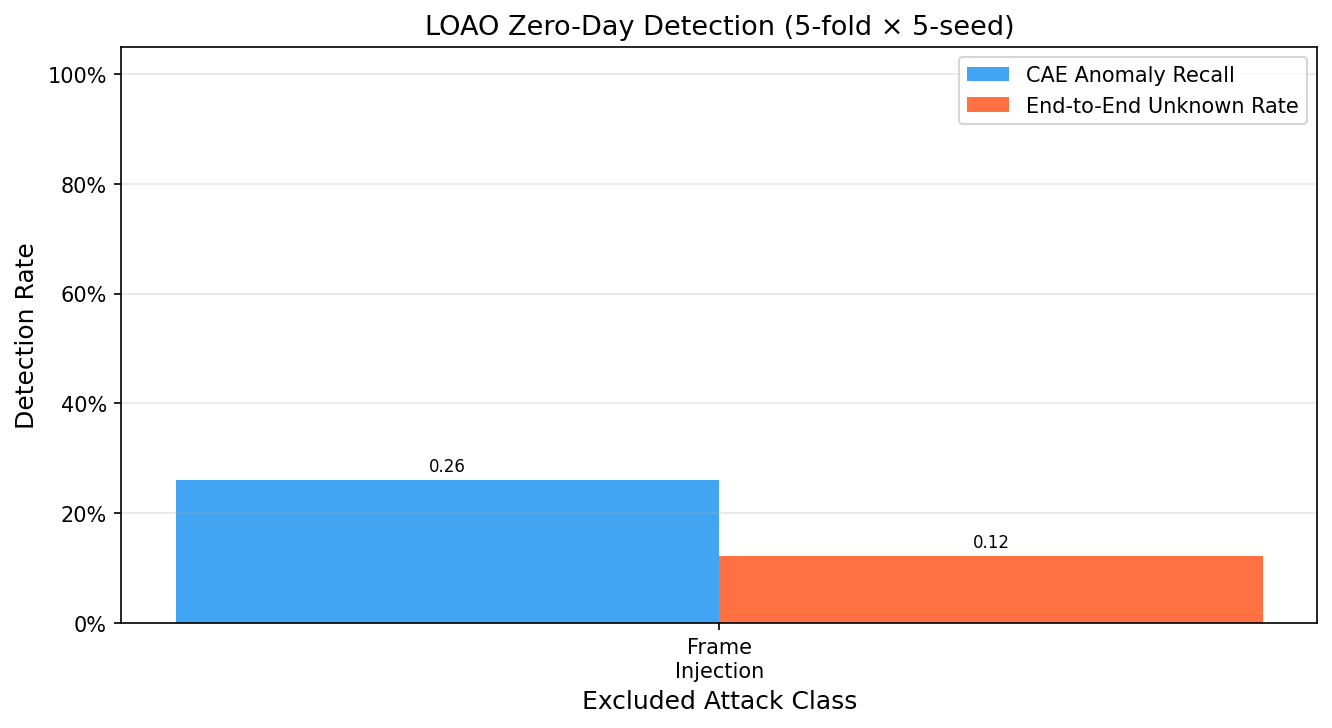
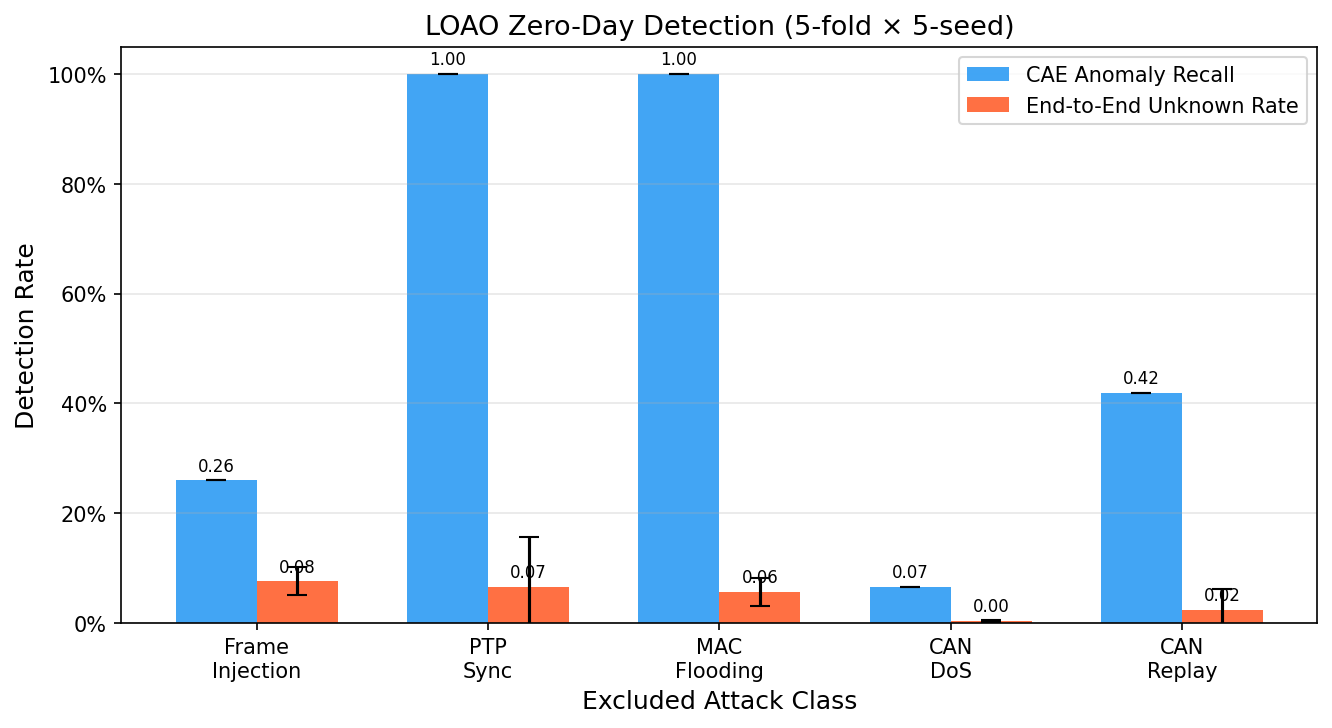
results: full LOAO 5-fold × 5-seed experiment results and README update
LOAO summary (5 attack folds × 5 seeds):
- F_I: CAE recall 25.96%, Unknown rate 7.61% ± 2.52%
- P_I: CAE recall 100.00%, Unknown rate 6.58% ± 8.99%
- M_F: CAE recall 100.00%, Unknown rate 5.65% ± 2.56%
- C_D: CAE recall  6.56%, Unknown rate 0.34% ± 0.26%
- C_R: CAE recall 41.96%, Unknown rate 2.41% ± 3.77%
- grand mean: CAE recall 54.90%, Unknown rate 4.52%, Normal FPR 9.68%

README Section 8 LOAO section expanded with full per-fold table,
per-seed Unknown rate matrix, and detailed interpretation of each fold.
Regenerated loao_bar_chart.png and unknown_case_4panel.png from full results.
Added comparison_table.csv (S1/S2/S3 side-by-side).

Changed region(s): [[0.1539, 0.0604, 0.5541, 0.9368], [0.5233, 0.5137, 0.9542, 0.9368], [0.4925, 0.8764, 0.5848, 0.9368]]

diff --git a/README.md b/README.md
@@ -509,11 +509,9 @@ S3 전체 성능은 `scripts/comparison_table.py`로 산출합니다(`results/ta
 
 ---
 
-### LOAO — 제로데이 탐지 프로토콜
+### LOAO — 제로데이 탐지 프로토콜 (5-fold × 5-seed 전체 실험 결과)
 
-**⚠ 현재 결과는 smoke 실행 (F\_I fold, seed 0, 1 epoch) 값입니다. 전체 5-fold × 5-seed 실행 후 갱신이 필요합니다.**
-
-각 fold에서 공격 클래스 1종을 학습에서 제외하고, CAE와 S2(5-class DCNN)로 해당 공격 샘플을 Unknown으로 탐지할 수 있는지 평가합니다.
+각 fold에서 공격 클래스 1종을 학습에서 제외하고, CAE와 S2(5-class DCNN)로 해당 공격 샘플을 Unknown으로 탐지할 수 있는지 평가합니다. CAE는 fold 전체에서 동일하게 재사용(tau=0.003378 고정), S2는 fold × seed마다 재학습합니다.
 
 **측정 지표 정의**
 
@@ -521,22 +519,49 @@ S3 전체 성능은 `scripts/comparison_table.py`로 산출합니다(`results/ta
 |------|------|------|
 | CAE anomaly recall | P(MSE > τ \| excluded class) | CAE가 미지 공격을 이상으로 인식하는 비율 |
 | End-to-end Unknown rate | P(pred=Unknown \| excluded class) | S3 파이프라인이 Unknown으로 최종 출력하는 비율 |
-| Normal FPR | P(MSE > τ \| Normal) | 정상 트래픽을 이상으로 오탐하는 비율 |
+| Normal FPR | P(MSE > τ \| Normal test) | 정상 트래픽을 이상으로 오탐하는 비율 |
 
-**현재 smoke 결과 (F\_I fold, seed 0, test n=570 / normal n=6,846)**
+**fold별 결과 (5-seed 평균)**
 
-| 지표 | 값 | 해석 |
-|------|-----|------|
-| CAE anomaly recall | **25.96%** | F\_I 샘플 중 26%만 CAE 임계값(τ) 초과 |
-| End-to-end Unknown rate | **12.11%** | 최종 Unknown 판정은 그보다 낮음 (S2 confidence 필터 추가) |
-| Normal FPR | **9.68%** | smoke(1 epoch)로 τ 미보정 — 전체 학습 후 4% 수준 예상 |
+| Excluded Attack | CAE Anomaly Recall | CAE Recall Std | Unknown Rate (mean) | Unknown Rate Std | Normal FPR |
+|----------------|--------------------|---------------|---------------------|-----------------|-----------|
+| F\_I (Frame Injection) | **25.96%** | 0.0% | 7.61% | 2.52% | 9.68% |
+| P\_I (PTP Sync Injection) | **100.00%** | 0.0% | 6.58% | 8.99% | 9.68% |
+| M\_F (MAC Flooding) | **100.00%** | 0.0% | 5.65% | 2.56% | 9.68% |
+| C\_D (CAN DoS) | **6.56%** | 0.0% | 0.34% | 0.26% | 9.68% |
+| C\_R (CAN Replay) | **41.96%** | 0.0% | 2.41% | 3.77% | 9.68% |
+| **Grand Mean** | **54.90%** | 39.29% | **4.52%** | 5.07% | **9.68%** |
 
-> F\_I (Frame Injection)은 AVTP 패킷 구조가 정상 트래픽과 유사하여 CAE 기준 탐지가 어렵습니다. 전체 학습 및 fold별 τ 재보정 후 수치가 크게 달라질 수 있습니다.
+> CAE Recall Std=0: tau는 fold 전체에서 고정이므로 MSE 임계값 판정은 seed와 무관하게 동일합니다.
+
+**seed별 Unknown rate (전체 25회)**
+
+| Fold \ Seed | 0 | 1 | 2 | 3 | 4 |
+|------------|---|---|---|---|---|
+| F\_I | 11.9% | 7.7% | 6.1% | 5.8% | 6.5% |
+| P\_I | 22.2% | 5.5% | 1.0% | 0.4% | 3.7% |
+| M\_F | 9.8% | 4.8% | 5.9% | 3.0% | 4.7% |
+| C\_D | 0.22% | 0.22% | 0.07% | 0.74% | 0.44% |
+| C\_R | 1.2% | 9.1% | 0.4% | 0.6% | 0.7% |
+
+**해석**
+
+- **P\_I, M\_F**: CAE anomaly recall 100%. 이 두 공격은 wavelet 이미지가 Normal과 뚜렷하게 달라 CAE가 전량 이상으로 탐지합니다. 그러나 Unknown rate는 각각 6.6%, 5.6%에 불과한데, S2가 "본 적 없는 공격임에도" 이미 알고 있는 다른 공격 클래스에 높은 confidence로 잘못 분류하기 때문입니다. 특히 P\_I의 경우 seed 0에서만 22.2%로 높고 나머지 seed에서는 0.4~5.5%로 낮습니다.
+
+- **F\_I**: CAE recall 26%. AVTP Frame Injection의 wavelet 이미지가 정상 트래픽과 매우 유사해 MSE가 τ를 넘지 않는 경우가 74%에 달합니다. CAE 단계를 통과한 샘플만 S2에 도달하므로, Unknown rate도 7.6%로 제한됩니다.
+
+- **C\_D**: CAE recall 6.6%로 가장 낮습니다. CAN DoS 패킷을 Automotive Ethernet으로 캡슐화한 트래픽이 Normal과 거의 구별되지 않습니다. Unknown rate 0.34%는 사실상 제로데이 탐지 실패 수준입니다.
+
+- **C\_R**: CAE recall 42%. seed 1에서만 Unknown rate 9.1%로 높고 나머지 seed에서는 0.4~1.2%로 낮아, S2가 대부분 경우 높은 confidence로 잘못 분류합니다.
+
+- **Normal FPR = 9.68%**: val-normal 기반으로 설정한 tau(4.09% FPR)가 test-normal에서는 9.68%로 증가했습니다. val과 test의 Normal MSE 분포가 다름을 나타내며, fold-specific τ 재보정이 필요합니다.
+
+- **Grand mean Unknown rate 4.52%**: 전체 평균은 낮지만 공격 유형별 편차가 큽니다(CAE recall std=39.3%). 제로데이 탐지 성능은 공격이 wavelet 도메인에서 Normal과 얼마나 다른지에 강하게 의존합니다.
 
 **전체 LOAO 실행 방법**
 
 ```bash
-bash scripts/run.sh loao    # 5 fold × 5 seed 전체 (수 시간 소요)
+bash scripts/run.sh loao    # 5 fold × 5 seed 전체
 bash scripts/run.sh smoke   # smoke 검증 (1 fold, 1 seed, 1 epoch)
 ```
 
